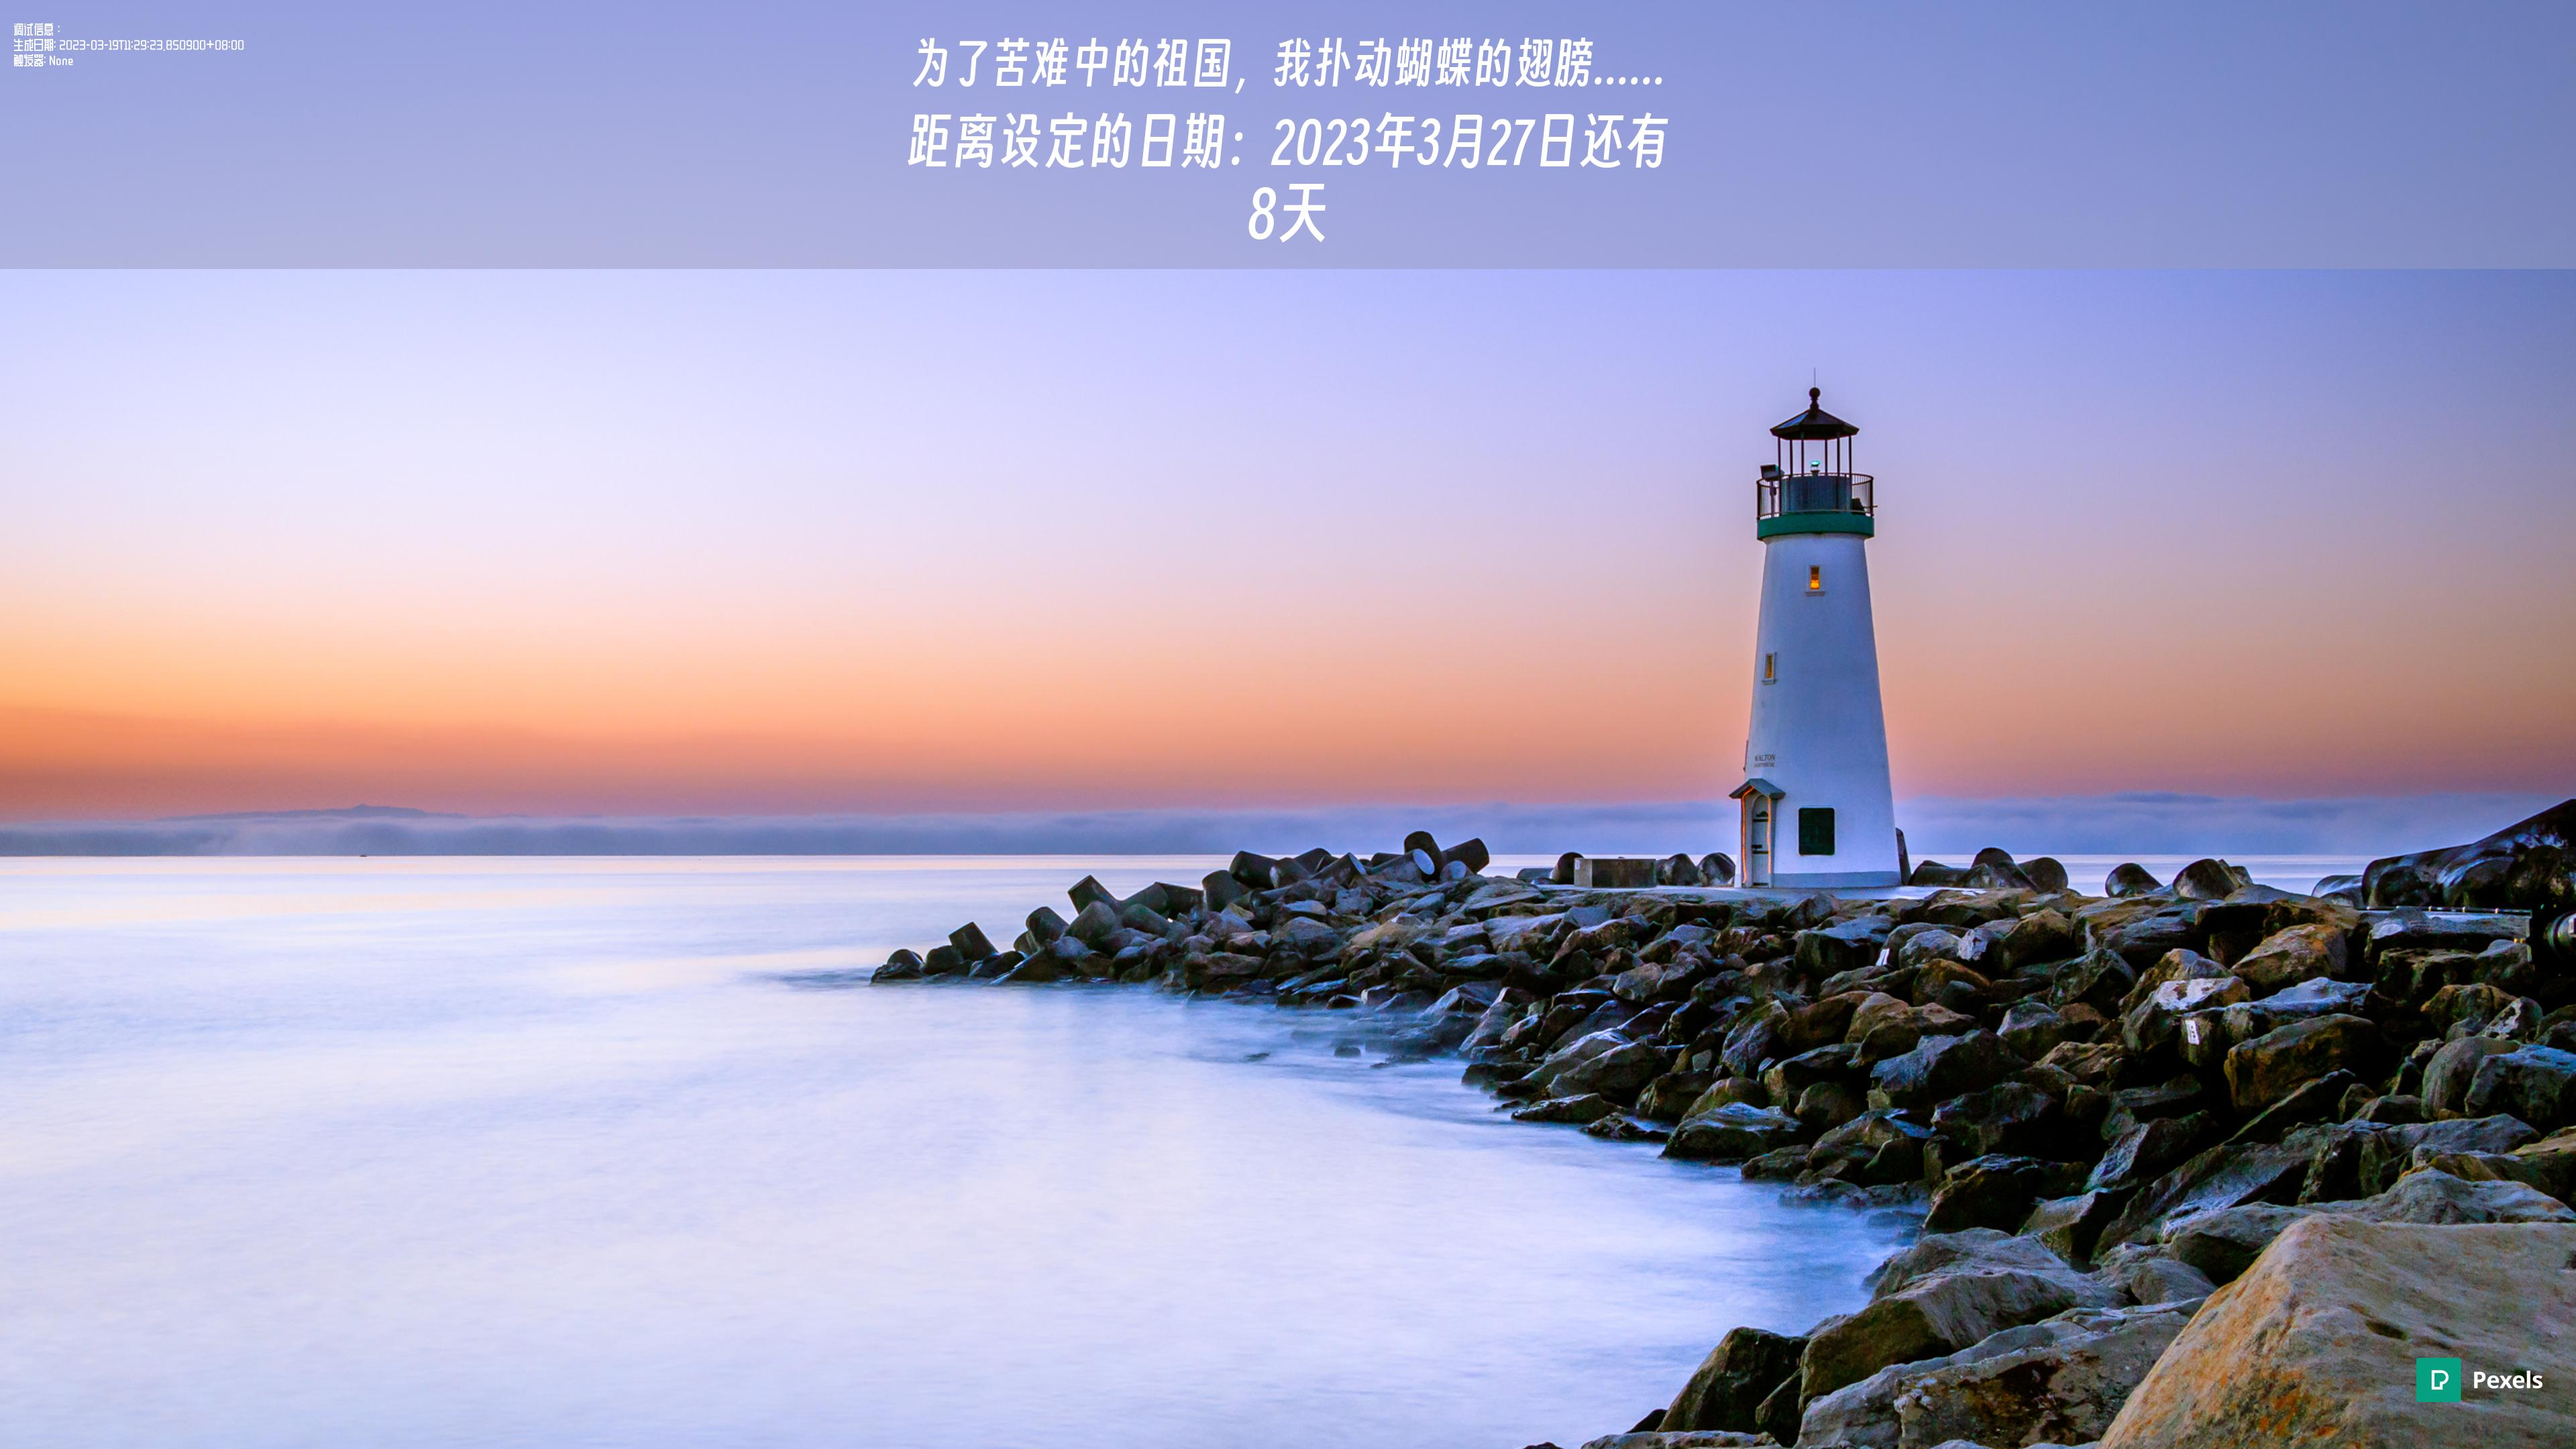
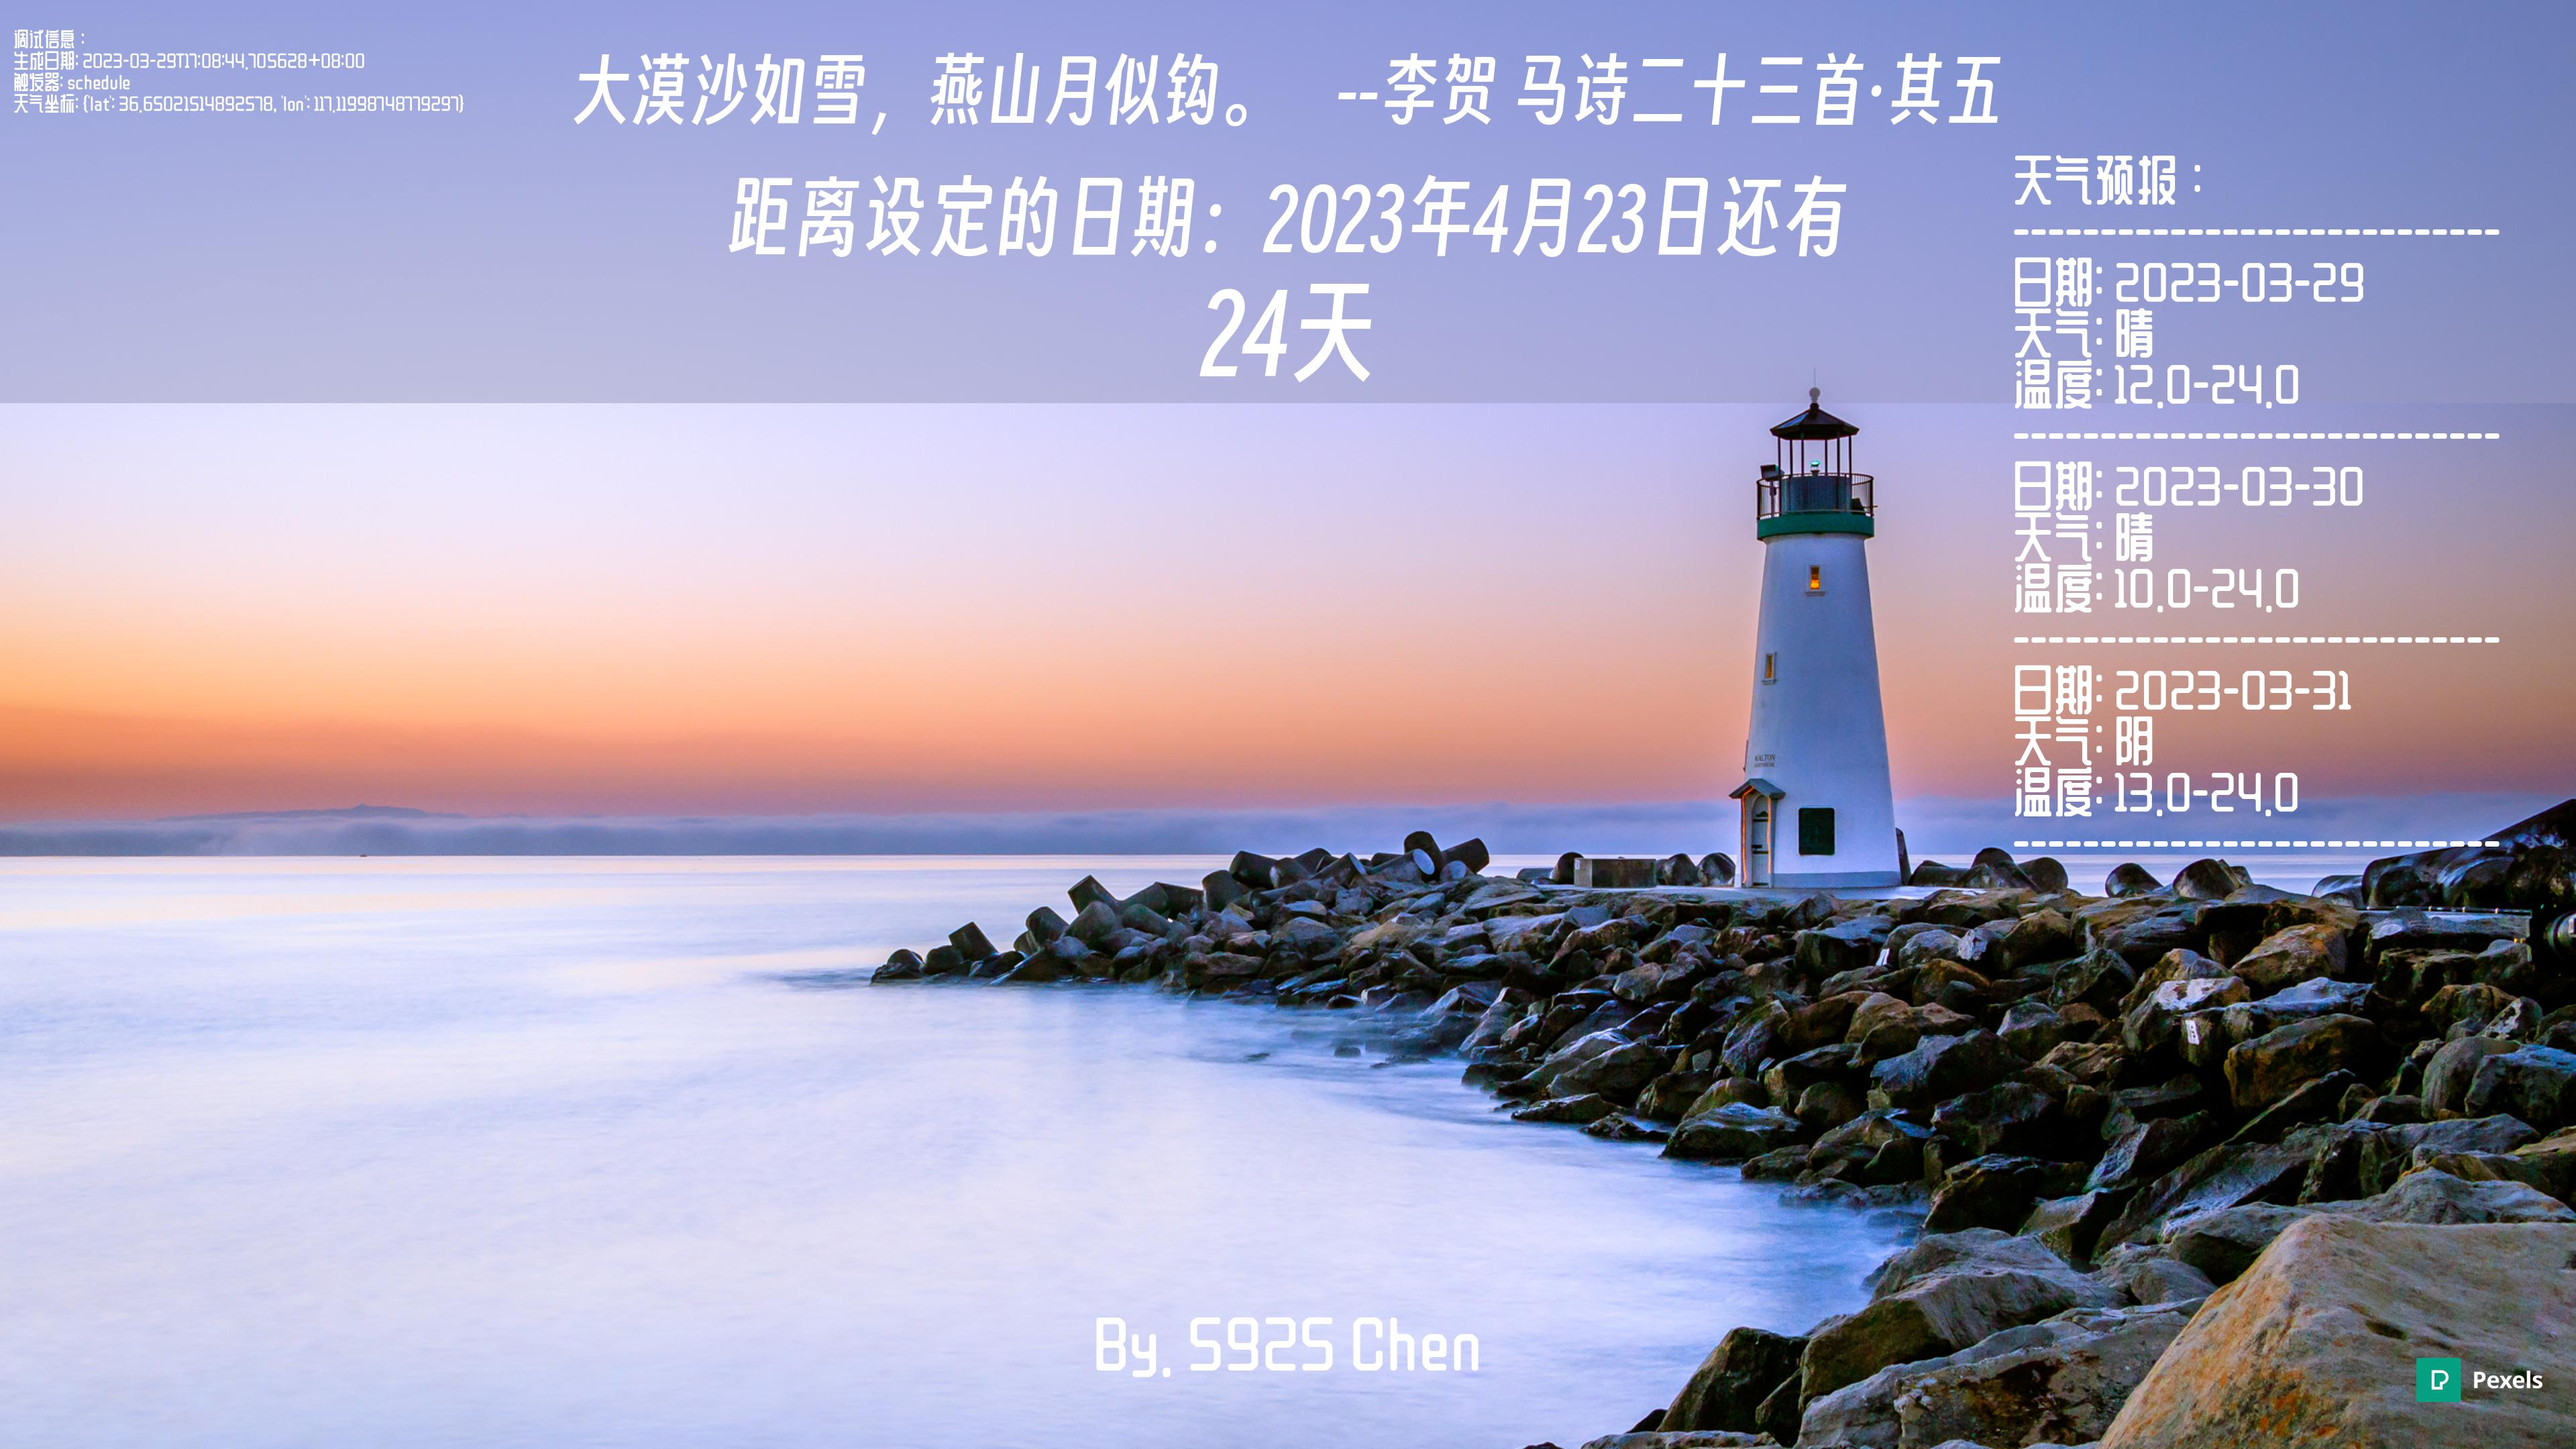
deploy: f0f38380d472544478cacfe425108b9d5af7670c

diff --git a/background/index.html b/background/index.html
@@ -1034,6 +1034,27 @@ Automation: <a href="../backgrounds/6DEBB2.exe">Link</a></p>
 <td align="center"><a href="../backgrounds/2850287.jpg">图片链接</a></td>
 <td align="center">workflow_dispatch</td>
 </tr>
+<tr>
+<td align="center">2023-03-29</td>
+<td align="center">1532771</td>
+<td align="center">大漠沙如雪，燕山月似钩。</td>
+<td align="center"><a href="../backgrounds/1532771.jpg">图片链接</a></td>
+<td align="center">schedule</td>
+</tr>
+<tr>
+<td align="center">2023-03-29</td>
+<td align="center">189349</td>
+<td align="center">黑色世界唯有东方的曙光。</td>
+<td align="center"><a href="../backgrounds/189349.jpg">图片链接</a></td>
+<td align="center">schedule</td>
+</tr>
+<tr>
+<td align="center">2023-03-29</td>
+<td align="center">2909083</td>
+<td align="center">蝉噪林逾静，鸟鸣山更幽。</td>
+<td align="center"><a href="../backgrounds/2909083.jpg">图片链接</a></td>
+<td align="center">schedule</td>
+</tr>
 </tbody>
 </table>
 
